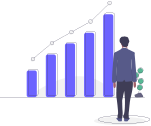
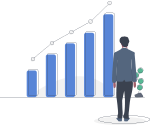
img changes

diff --git a/pages/[locale]/index.js b/pages/[locale]/index.js
@@ -65,7 +65,7 @@ const Index = () => {
                             <p>
                                 {t('allocationText')}
                             </p>
-                            <img src="../../static/img/undraw_folder_39kl.jpg" alt="Finances" />
+                            <img src="../../static/img/undraw_folder_39kl.png" alt="Finances" />
                         </li>
                         <li className="card">
                             <h3>{t('instruments')}</h3>
@@ -79,7 +79,7 @@ const Index = () => {
                             <p>
                                 {t('reliableText')}
                             </p>
-                            <img src="../../static/img/insurance.jpg" alt="Insurance" />
+                            <img src="../../static/img/insurance.png" alt="Insurance" />
                         </li>
                     </ul>
                 </div>
